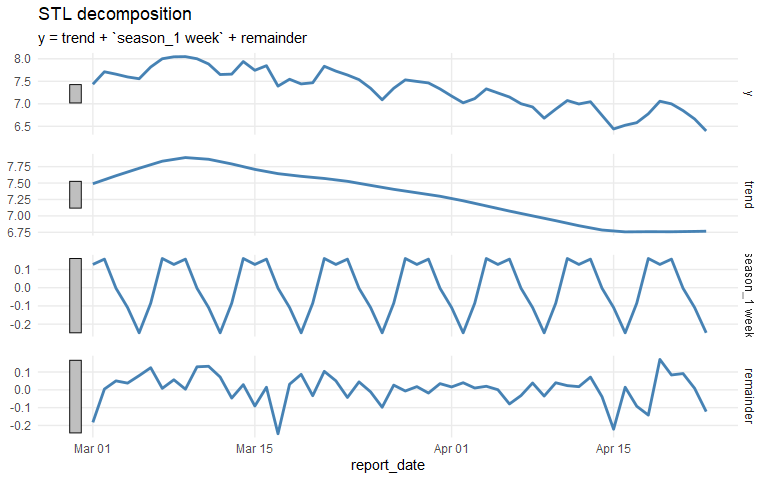
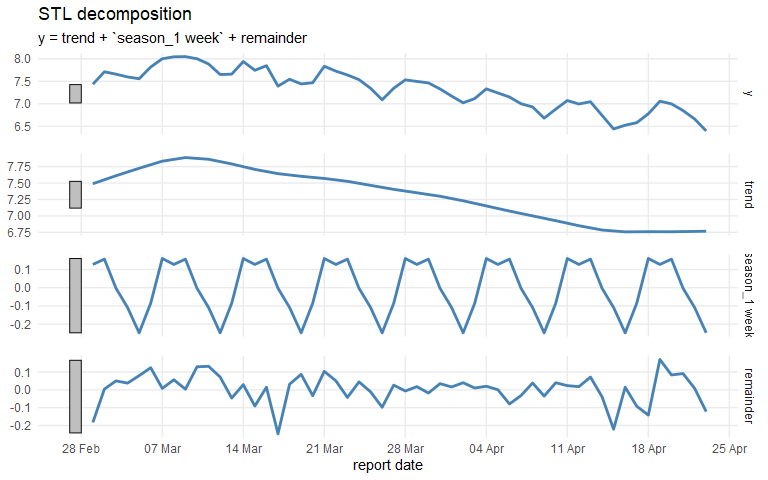
Improve date formats and chart labels

diff --git a/covid-post-peak-analysis.md b/covid-post-peak-analysis.md
@@ -12,6 +12,10 @@ case_data_url <- "https://github.com/minhealthnz/nz-covid-data/blob/main/cases/c
 dhb_names <- c("Capital and Coast", "Hutt Valley", "Wairarapa")
 dhb_names_label <- glue_collapse(dhb_names, sep = ", ", last = " and ")
 
+nice_date_format <- function(input_date) {
+  str_trim(format(input_date, '%e %b %Y'))
+}
+
 analysis_start_date <- ymd(20220201)
 wfh_start_date <- ymd(20220221)
 model_start_date <- ymd(20220301)
@@ -42,7 +46,7 @@ cases_by_dhb_df <- cases_df %>%
   count(report_date, dhb, case_status)
 ```
 
-## Wellington figures up to 2022-04-23.
+## Wellington figures up to 23 Apr 2022
 
 Including Hutt and Wairarapa as well as CCDHB.
 
@@ -85,6 +89,8 @@ dhb_cases_transformed_stl <- dhb_cases_transformed_ts %>%
 
 dhb_cases_transformed_stl %>% 
   autoplot(colour = "steelblue", size = 1) +
+  scale_x_date(date_breaks = "1 week", date_labels = "%d %b") +
+  labs(x = "report date") +
   theme_minimal() +
   theme(panel.grid.minor = element_blank(), panel.spacing.y = unit(1, "lines"))
 ```
@@ -106,8 +112,8 @@ dhb_cases_after_transform_stl_df %>%
   geom_point(aes(x = report_date, y = cases)) +
   scale_x_date(date_breaks = "1 week", date_labels = "%d %b") +
   scale_y_continuous(limits = c(0, NA)) +
-  labs(x = "", y= "", title = str_glue("Total daily COVID-19 cases to {latest_report_date}"),
-       subtitle = str_glue("F\for {dhb_names_label} DHBs\n", 
+  labs(x = "", y = "", title = str_glue("Total daily COVID-19 cases to {nice_date_format(latest_report_date)}"),
+       subtitle = str_glue("for {dhb_names_label} DHBs\n", 
                            "Red line: cases adjusted for weekly pattern. Blue line: trend component."),
        caption = str_glue("Source: {case_data_url}")) +
   theme_minimal() +
@@ -134,7 +140,7 @@ dhb_cases_df %>%
   scale_y_continuous(limits = c(0, NA)) +
   scale_x_date(date_breaks = "1 week", date_labels = "%d %b") +
   scale_fill_manual(values = dhb_pal, guide = guide_legend(title = "DHB")) +
-  labs(x = "", y= "", title = str_glue("Daily COVID-19 cases to {latest_report_date}"),
+  labs(x = "", y = "", title = str_glue("Daily COVID-19 cases to {nice_date_format(latest_report_date)}"),
        subtitle = str_glue("for {dhb_names_label} DHBs"),
        caption = str_glue("Source: {case_data_url}")) +
   theme_minimal() +
@@ -157,7 +163,7 @@ maxima <- dhb_cases_after_transform_stl_df %>%
   summarise(cases = max(cases), adjusted = max(season_adjust), trend = max(trend))
 ```
 
-Looking at raw case numbers, the peak on 2022-03-09 was about 5.2 times the lowest recent value.
+Looking at raw case numbers, the peak on 9 Mar 2022 was about 5.2 times the lowest recent value.
 
 But when adjusting for the weekly pattern, it was 4.3 times the lowest recent adjusted value, and the trend was about 3.1 times the lowest recent trend line.
 
